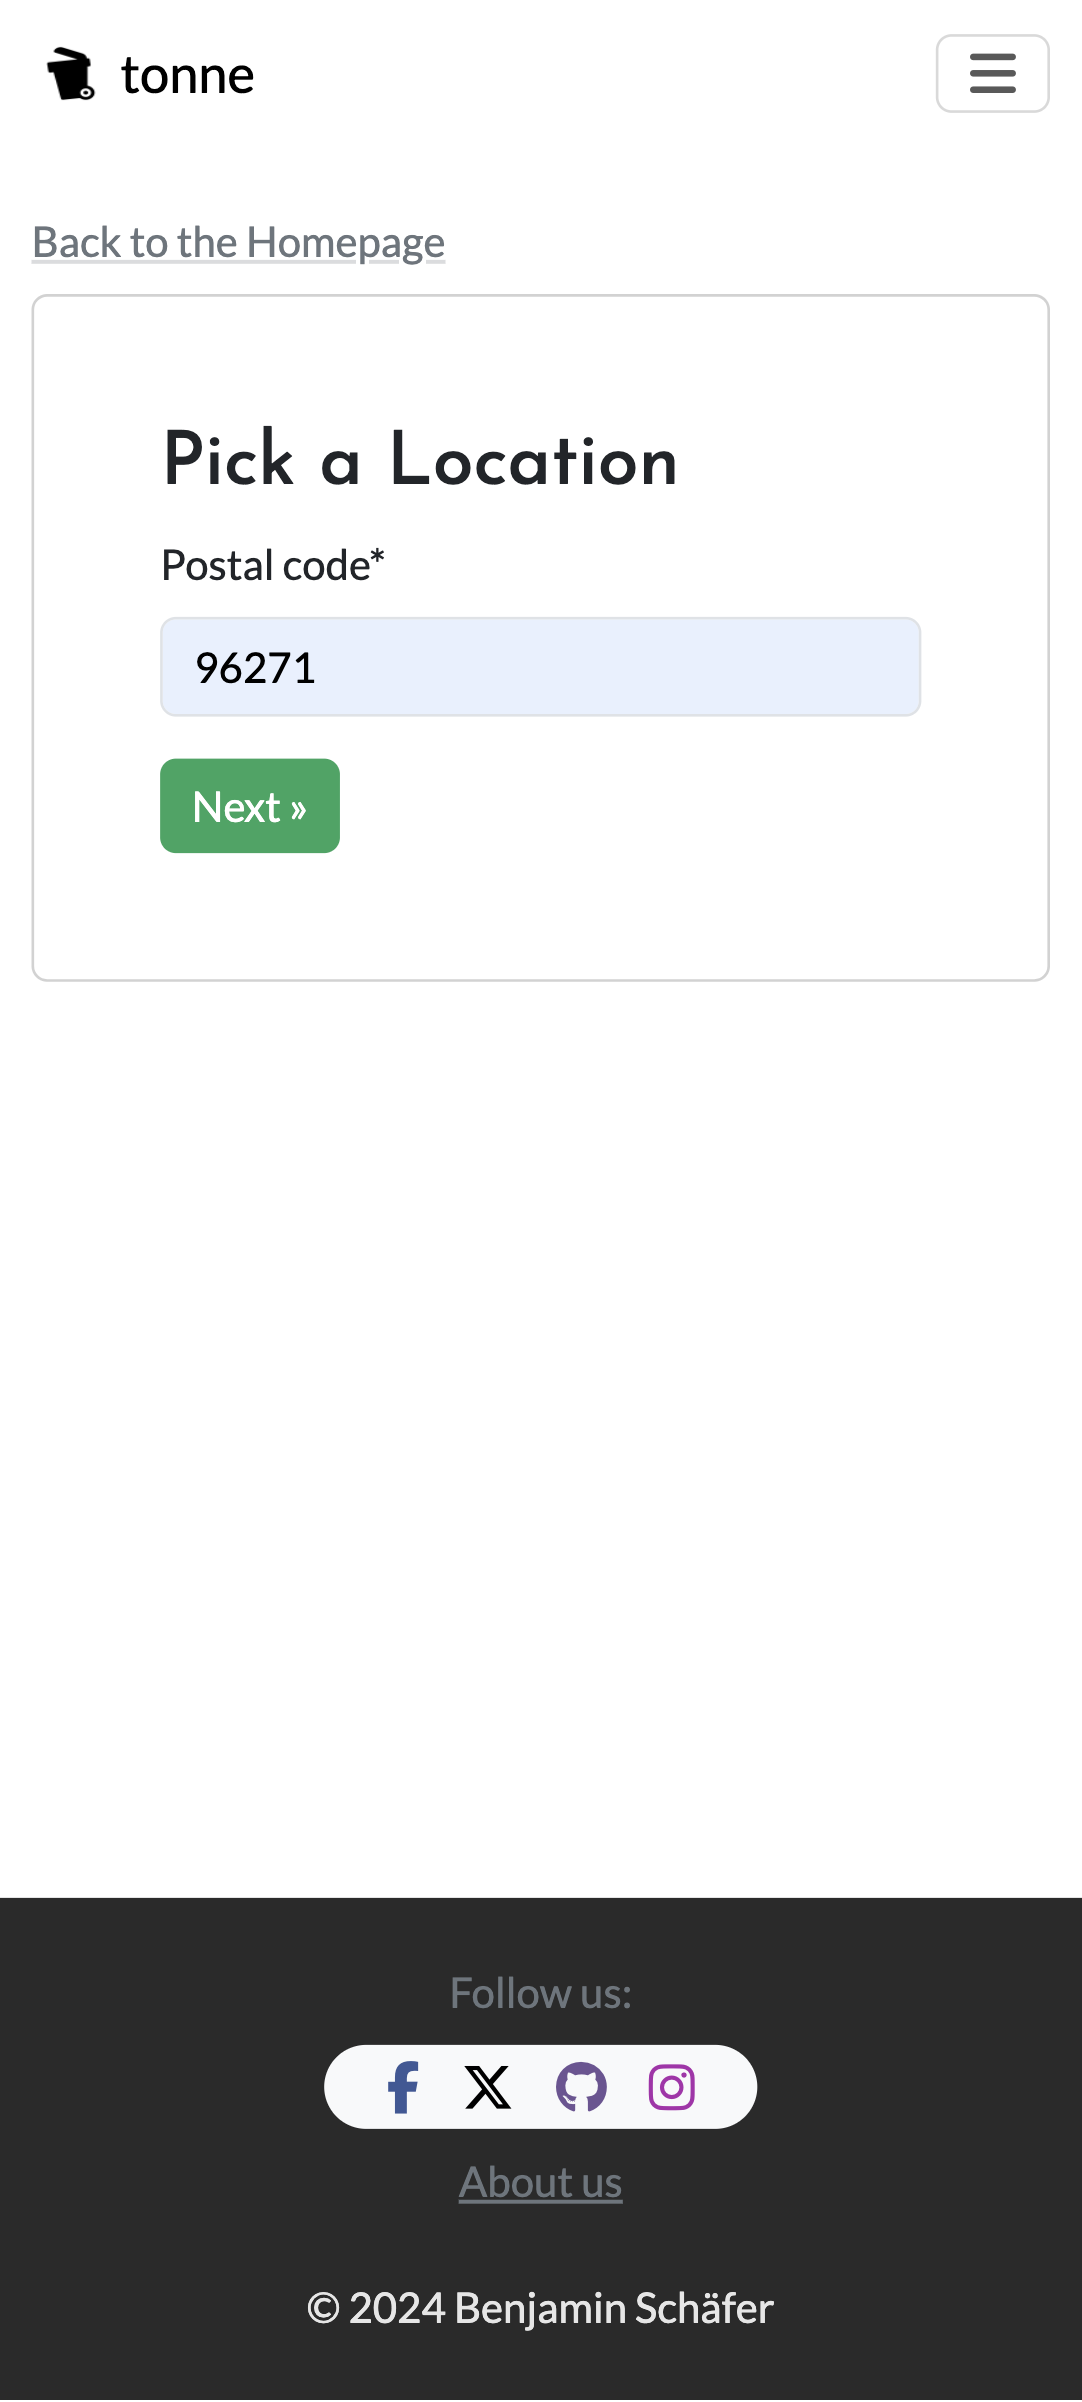
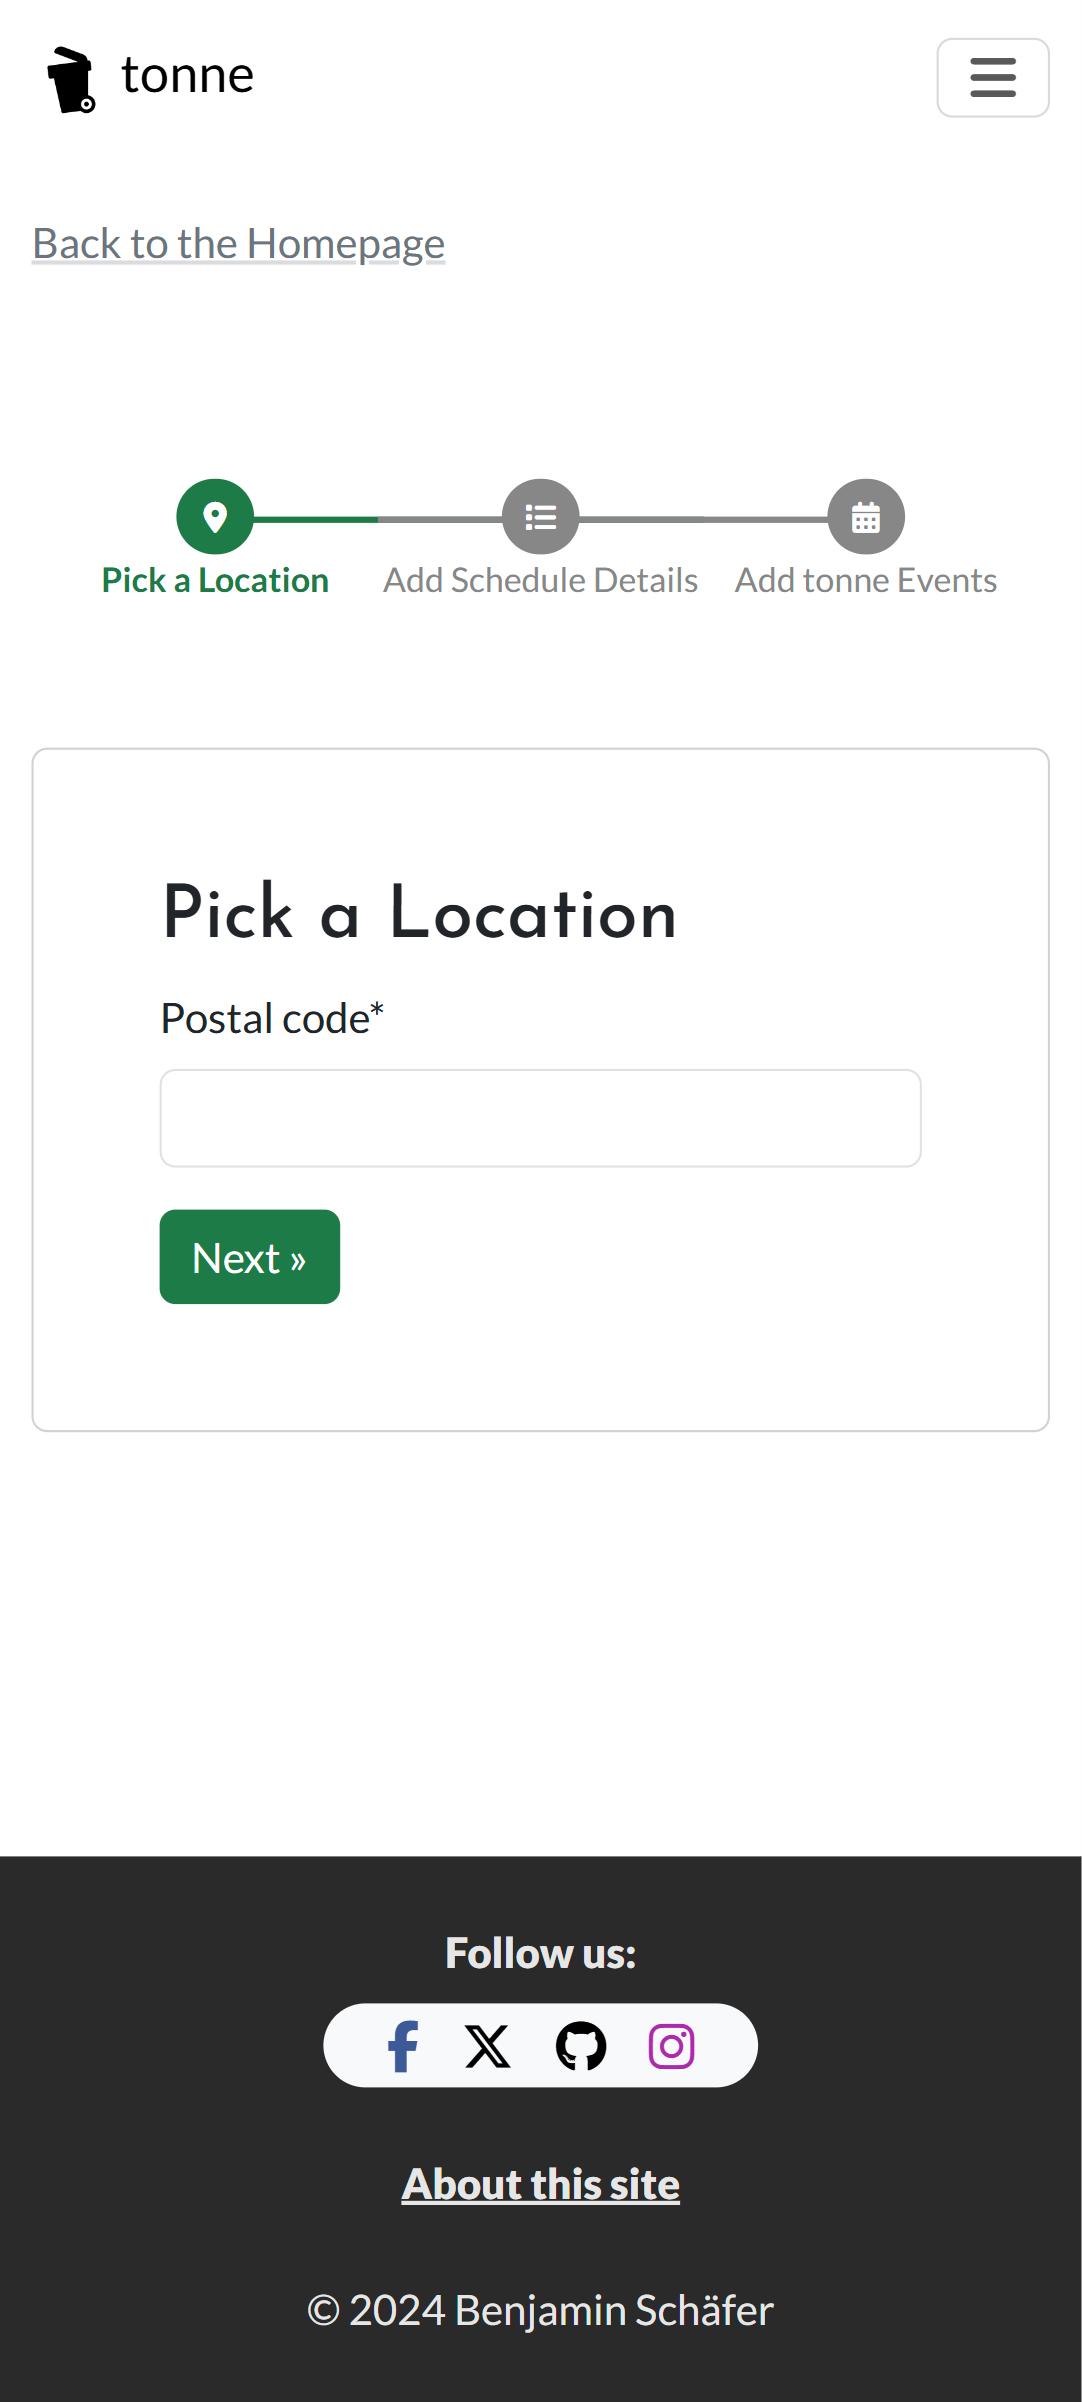
feat: add progress bar to schedulebuilder

diff --git a/static/css/style.css b/static/css/style.css
@@ -324,3 +324,88 @@ main {
         width: 20px;
         height: 20px;
     }
+
+
+/* -> Credit for progress bar: https://bbbootstrap.com/snippets/bootstrap-4-bootstrap-4-timeline-order-tracking-step-step-progress-bar-26897417 */
+/* Progress steps bar styles */
+.bs4-order-tracking {
+    margin-bottom: 30px;
+    overflow: hidden;
+    color: #878788;
+    padding-left: 0px;
+    margin-top: 30px
+}
+
+.bs4-order-tracking li {
+    list-style-type: none;
+    font-size: 13px;
+    width: 33.33%;
+    float: left;
+    position: relative;
+    font-weight: 400;
+    color: #878788;
+    text-align: center
+}
+
+.bs4-order-tracking li:first-child:before {
+    margin-left: 15px !important;
+    padding-left: 11px !important;
+    text-align: left !important
+}
+
+.bs4-order-tracking li:last-child:before {
+    margin-right: 5px !important;
+    padding-right: 11px !important;
+    text-align: right !important
+}
+
+.bs4-order-tracking li>div {
+    color: #fff;
+    width: 29px;
+    text-align: center;
+    line-height: 29px;
+    display: block;
+    font-size: 12px;
+    background: #878788;
+    border-radius: 50%;
+    margin: auto
+}
+
+.bs4-order-tracking li:after {
+    content: '';
+    width: 150%;
+    height: 2px;
+    background: #878788;
+    position: absolute;
+    left: 0%;
+    right: 0%;
+    top: 15px;
+    z-index: -1
+}
+
+.bs4-order-tracking li:first-child:after {
+    left: 50%
+}
+
+.bs4-order-tracking li:last-child:after {
+    left: 0% !important;
+    width: 0% !important
+}
+
+.bs4-order-tracking li.active {
+    font-weight: bold;
+    color: var(--darker-secondary-color);
+}
+
+.bs4-order-tracking li.active>div {
+    background: var(--darker-secondary-color);
+}
+
+.bs4-order-tracking li.active:after {
+    background: var(--darker-secondary-color);
+}
+
+.card-timeline {
+    background-color: #fff;
+    z-index: 0;
+}

diff --git a/staticfiles/css/style.css b/staticfiles/css/style.css
@@ -324,3 +324,88 @@ main {
         width: 20px;
         height: 20px;
     }
+
+
+/* -> Credit for progress bar: https://bbbootstrap.com/snippets/bootstrap-4-bootstrap-4-timeline-order-tracking-step-step-progress-bar-26897417 */
+/* Progress steps bar styles */
+.bs4-order-tracking {
+    margin-bottom: 30px;
+    overflow: hidden;
+    color: #878788;
+    padding-left: 0px;
+    margin-top: 30px
+}
+
+.bs4-order-tracking li {
+    list-style-type: none;
+    font-size: 13px;
+    width: 33.33%;
+    float: left;
+    position: relative;
+    font-weight: 400;
+    color: #878788;
+    text-align: center
+}
+
+.bs4-order-tracking li:first-child:before {
+    margin-left: 15px !important;
+    padding-left: 11px !important;
+    text-align: left !important
+}
+
+.bs4-order-tracking li:last-child:before {
+    margin-right: 5px !important;
+    padding-right: 11px !important;
+    text-align: right !important
+}
+
+.bs4-order-tracking li>div {
+    color: #fff;
+    width: 29px;
+    text-align: center;
+    line-height: 29px;
+    display: block;
+    font-size: 12px;
+    background: #878788;
+    border-radius: 50%;
+    margin: auto
+}
+
+.bs4-order-tracking li:after {
+    content: '';
+    width: 150%;
+    height: 2px;
+    background: #878788;
+    position: absolute;
+    left: 0%;
+    right: 0%;
+    top: 15px;
+    z-index: -1
+}
+
+.bs4-order-tracking li:first-child:after {
+    left: 50%
+}
+
+.bs4-order-tracking li:last-child:after {
+    left: 0% !important;
+    width: 0% !important
+}
+
+.bs4-order-tracking li.active {
+    font-weight: bold;
+    color: var(--darker-secondary-color);
+}
+
+.bs4-order-tracking li.active>div {
+    background: var(--darker-secondary-color);
+}
+
+.bs4-order-tracking li.active:after {
+    background: var(--darker-secondary-color);
+}
+
+.card-timeline {
+    background-color: #fff;
+    z-index: 0;
+}

diff --git a/schedulebuilder/templates/schedulebuilder/location_form.html b/schedulebuilder/templates/schedulebuilder/location_form.html
@@ -2,15 +2,37 @@
 {% load crispy_forms_tags %}
 {% block content %}
 
+
+
+<!-- Return Link -->
 <div class="container navbar-margin">
-    <!-- Location Form -->
+    <a href="{% url 'landing_page' %}"
+        class="link-secondary link-underline-opacity-25 link-underline-opacity-100-hover">Back to the
+        Homepage
+    </a>
+</div>
+
+<!-- Progress Bar -->
+<div class="container">
+    <div class="card card-timeline px-2 border-0 mt-5">
+        <ul class="bs4-order-tracking">
+            <li class="step active">
+                <div><i class="fas fa-map-marker-alt"></i></div> Pick a Location
+            </li>
+            <li class="step">
+                <div><i class="fas fa-list"></i></div> Add Schedule Details
+            </li>
+            <li class="step">
+                <div><i class="fas fa-calendar-alt"></i></div> Add tonne Events
+            </li>
+        </ul>
+    </div>
+</div>
+
+<!-- Location Form -->
+<div class="container">
     <div class="row justify-content-center mt-3">
         <div class="col col-lg-5">
-            <!-- Return Link -->
-            <a href="{% url 'landing_page' %}"
-                class="link-secondary link-underline-opacity-25 link-underline-opacity-100-hover">Back to the
-                Homepage
-            </a>
             <div class="card mt-2">
                 <div class="card-body p-5">
                     <h1>Pick a Location</h1>

diff --git a/schedulebuilder/templates/schedulebuilder/schedule_form.html b/schedulebuilder/templates/schedulebuilder/schedule_form.html
@@ -3,15 +3,35 @@
 {% block content %}
 
 
-<!-- Schedule Form -->
+<!-- Return Link -->
 <div class="container navbar-margin">
+    <a href="{% url 'landing_page' %}"
+        class="link-secondary link-underline-opacity-25 link-underline-opacity-100-hover">Back to the
+        Homepage
+    </a>
+</div>
+
+<!-- Progress Bar -->
+<div class="container">
+    <div class="card card-timeline px-2 border-0 mt-5">
+        <ul class="bs4-order-tracking">
+            <li class="step active">
+                <div><i class="fas fa-map-marker-alt"></i></div> Pick a Location
+            </li>
+            <li class="step active">
+                <div><i class="fas fa-list"></i></div> Add Schedule Details
+            </li>
+            <li class="step">
+                <div><i class="fas fa-calendar-alt"></i></div> Add tonne Events
+            </li>
+        </ul>
+    </div>
+</div>
+
+<!-- Schedule Form -->
+<div class="container">
     <div class="row justify-content-center mt-3">
         <div class="col col-lg-5">
-            <!-- Return Link -->
-            <a href="{% url 'landing_page' %}"
-                class="link-secondary link-underline-opacity-25 link-underline-opacity-100-hover">Back to the
-                Homepage
-            </a>
             <div class="card mt-2">
                 <div class="card-body p-5">
                     <h1>Create a new schedule</h1>

diff --git a/schedulebuilder/templates/schedulebuilder/calendar.html b/schedulebuilder/templates/schedulebuilder/calendar.html
@@ -30,6 +30,25 @@
     </a>
 </div>
 
+<!-- Progress Bar -->
+<div class="container">
+    <div class="card card-timeline px-2 border-0 mt-5">
+        <ul class="bs4-order-tracking">
+            <li class="step active">
+                <div><i class="fas fa-map-marker-alt"></i></div> Pick a Location
+            </li>
+            <li class="step active">
+                <div><i class="fas fa-list"></i></div> Add Schedule Details
+            </li>
+            <li class="step active">
+                <div><i class="fas fa-calendar-alt"></i></div> Add tonne Events
+            </li>
+        </ul>
+    </div>
+    <hr>
+</div>
+
+
 <!-- Schedule Info -->
 <div class="container mt-5">
     <h1 class="mb-0">Add bins and events to your Schedule: {{ schedule }}</h1>

diff --git a/README.md b/README.md
@@ -1,4 +1,4 @@
-# tonne: Your Partner in Green Living! 
+# tonne: Your Partner in Green Living!
 [Experience our live website here!](https://tonne-waste-reminders-a6836f2888b0.herokuapp.com/)
 
 [![GitHub commit activity](https://img.shields.io/github/commit-activity/t/benschaf/waste-schedule)](https://github.com/benschaf/waste-schedule/commits/main)
@@ -251,7 +251,7 @@ Here the user can enter a title and description for the schedule. They can also 
 
 Here the user can add collection events to the schedule. They can select the waste type and the collection day directly from a calendar. The calendar is implemented using the [FullCalendar](https://fullcalendar.io/) library. The user can add recurring events, such as weekly or monthly collections, as well as one-time events. The deletion of recurring events is not yet implemented because the FullCalendar library doesn't support it natively. Singular events and all events that are part of the same recurrence can be deleted.
 
-The schedule builder is designed to be intuitive and user-friendly, providing a step-by-step process for creating a new schedule. It allows users to contribute to the site and share their knowledge with the community.
+The schedule builder is designed to be intuitive and user-friendly, providing a step-by-step process for creating a new schedule. It allows users to contribute to the site and share their knowledge with the community. And it even includes a step by step progress bar!
 
 | Location Form | Schedule Title / Description / Image Form | Collection Events Calendar Form |
 | --- | --- | --- |
@@ -596,11 +596,10 @@ You can fork this repository by using the following steps:
 ### Content
 
 <!-- CREDITS_START -->
-All the Credits and hyperlinks can be found in the respective files on the indicated lines (just click the link to get there).
+All the Credits and hyperlinks can be found in the respective files on the indicated lines.
 
 Note that the list of credits below is automatically generated from the project files using the [copy-credits.py](copy-credits.py) script.
 The script was written by me, with much help from the Microsoft Edge Copilot.
-
 | File | Notes | Source |
 | --- | --- | --- |
 | [index.html: Line 20](https://github.com/benschaf/waste-schedule/blob/main/core/templates/core/index.html#L20) | manual input validation using regex pattern | [developer.mozilla.org](https://developer.mozilla.org/en-US/docs/Learn/Forms/Form_validation) |
@@ -610,11 +609,12 @@ The script was written by me, with much help from the Microsoft Edge Copilot.
 | [views.py: Line 356](https://github.com/benschaf/waste-schedule/blob/main/schedulebuilder/views.py#L356) | update_or_create | [docs.djangoproject.com](https://docs.djangoproject.com/en/5.0/ref/models/querysets/#update-or-create) |
 | [views.py: Line 357](https://github.com/benschaf/waste-schedule/blob/main/schedulebuilder/views.py#L357) | dict.get() | [www.w3schools.com](https://www.w3schools.com/python/ref_dictionary_get.asp) |
 | [views.py: Line 396](https://github.com/benschaf/waste-schedule/blob/main/schedulebuilder/views.py#L396) | get_kind_display() | [docs.djangoproject.com](https://docs.djangoproject.com/en/3.2/ref/models/instances/#django.db.models.Model.get_FOO_display) |
-| [schedule_form.html: Line 21](https://github.com/benschaf/waste-schedule/blob/main/schedulebuilder/templates/schedulebuilder/schedule_form.html#L21) | uploading a file using a form | [www.w3schools.com](https://www.w3schools.com/tags/att_form_enctype.asp) |
+| [schedule_form.html: Line 41](https://github.com/benschaf/waste-schedule/blob/main/schedulebuilder/templates/schedulebuilder/schedule_form.html#L41) | uploading a file using a form | [www.w3schools.com](https://www.w3schools.com/tags/att_form_enctype.asp) |
 | [style.css: Line 2](https://github.com/benschaf/waste-schedule/blob/main/static/css/style.css#L2) | using CSS root variables | [www.w3schools.com](https://www.w3schools.com/css/css3_variables.asp) |
 | [style.css: Line 32](https://github.com/benschaf/waste-schedule/blob/main/static/css/style.css#L32) | keyframes | [stackoverflow.com](https://stackoverflow.com/questions/45330061/how-to-flash-a-div-only) |
 | [style.css: Line 66](https://github.com/benschaf/waste-schedule/blob/main/static/css/style.css#L66) | Gradient text | [cssgradient.io](https://cssgradient.io/blog/css-gradient-text/) |
 | [style.css: Line 177](https://github.com/benschaf/waste-schedule/blob/main/static/css/style.css#L177) | timeline CSS & HTML | [www.bootdey.com](https://www.bootdey.com/snippets/view/timeline-events) |
+| [style.css: Line 329](https://github.com/benschaf/waste-schedule/blob/main/static/css/style.css#L329) | progress bar | [bbbootstrap.com](https://bbbootstrap.com/snippets/bootstrap-4-bootstrap-4-timeline-order-tracking-step-step-progress-bar-26897417) |
 | [edit_calendar.js: Line 26](https://github.com/benschaf/waste-schedule/blob/main/static/js/edit_calendar.js#L26) | getWeekday | [www.w3schools.com](https://www.w3schools.com/jsref/jsref_getday.asp) |
 | [edit_calendar.js: Line 68](https://github.com/benschaf/waste-schedule/blob/main/static/js/edit_calendar.js#L68) | selectedIndex | [www.w3schools.com](https://www.w3schools.com/jsref/prop_select_selectedindex.asp) |
 | [edit_calendar.js: Line 163](https://github.com/benschaf/waste-schedule/blob/main/static/js/edit_calendar.js#L163) | query selector | [developer.mozilla.org](https://developer.mozilla.org/en-US/docs/Web/API/Document/querySelector?retiredLocale=de) |
@@ -631,8 +631,8 @@ The script was written by me, with much help from the Microsoft Edge Copilot.
 | [edit_calendar.js: Line 213](https://github.com/benschaf/waste-schedule/blob/main/staticfiles/js/edit_calendar.js#L213) | adding a year to a date | [developer.mozilla.org](https://developer.mozilla.org/en-US/docs/Web/JavaScript/Reference/Global_Objects/Date/setFullYear) |
 | [index.js: Line 1](https://github.com/benschaf/waste-schedule/blob/main/staticfiles/js/index.js#L1) | redirecting to a url in javascript | [stackoverflow.com](https://stackoverflow.com/questions/503093/how-can-i-make-a-redirect-page-in-jquery-javascript) |
 | [script.js: Line 2](https://github.com/benschaf/waste-schedule/blob/main/staticfiles/js/script.js#L2) | popovers | [getbootstrap.com](https://getbootstrap.com/docs/5.2/components/popovers/#overview) |
-| [base.html: Line 94](https://github.com/benschaf/waste-schedule/blob/main/templates/base.html#L94) | django messages framework | [docs.djangoproject.com](https://docs.djangoproject.com/en/5.0/ref/contrib/messages/) |
 | [only_schedule.html: Line 3](https://github.com/benschaf/waste-schedule/blob/main/templates/only_schedule.html#L3) | sending JSON data to JavaScript | [docs.djangoproject.com](https://docs.djangoproject.com/en/5.0/ref/templates/builtins/#std-templatefilter-json_script) |
+| [base.html: Line 94](https://github.com/benschaf/waste-schedule/blob/main/templates/base.html#L94) | django messages framework | [docs.djangoproject.com](https://docs.djangoproject.com/en/5.0/ref/contrib/messages/) |
 | [login.html: Line 29](https://github.com/benschaf/waste-schedule/blob/main/templates/account/login.html#L29) | google sign in button | [developers.google.com](https://developers.google.com/identity/branding-guidelines?hl=de) |
 | [signup.html: Line 37](https://github.com/benschaf/waste-schedule/blob/main/templates/account/signup.html#L37) | social Login setup | [www.youtube.com](https://www.youtube.com/watch?v=yO6PP0vEOMc&ab_channel=AkamaiDevRel) |
 | [signup.html: Line 38](https://github.com/benschaf/waste-schedule/blob/main/templates/account/signup.html#L38) | documentation for social Locin setup | [docs.allauth.org](https://docs.allauth.org/en/latest/socialaccount/introduction.html) |
